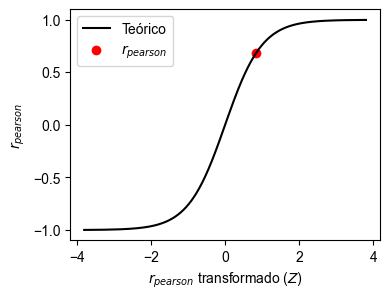
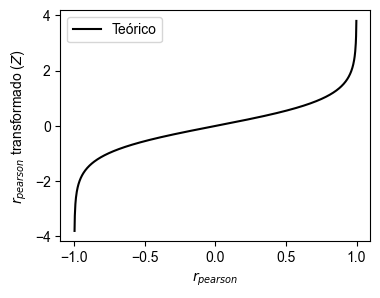
Changed README for r-pearson

diff --git a/Python/pt-br/r-pearson/README.md b/Python/pt-br/r-pearson/README.md
@@ -8,7 +8,7 @@ Este notebook contém diversas formas de avaliar o coeficiente de Pearson utiliz
 - Gráfico com a estimativa do intervalo de confiança;
 
 
-![alt text](https://raw.githubusercontent.com/andersonmdcanteli/statistic/master/Python/pt-br/r-pearson/gif.gif "gif gerado com os gráficos de Pearson")
+![gif on r pearson](https://raw.githubusercontent.com/andersonmdcanteli/statistic/master/Python/pt-br/r-pearson/gif.gif "gif gerado com os gráficos de Pearson")
 
 
 
@@ -20,7 +20,7 @@ O cálculo do coeficiente de correlação de Pearson envolve a determinação da
 
 O coeficiente de correlação de Pearson é amplamente utilizado na análise de dados para avaliar a força e a direção da associação linear entre duas variáveis. Ele é amplamente utilizado em diversas áreas, incluindo biologia, economia, psicologia e outras áreas da ciência.
 
-O coeficiente de Pearson (e.g., $r_{pearson})$ é estimado da seguinte forma:
+O coeficiente de Pearson ($r_{perason})$ é estimado da seguinte forma:
 
 
 $$r_{pearson} = \frac{\sum_{i=1}^n (x_i - \overline{x}) (y_i - \overline{y})}{\sqrt{\sum_{i=1}^n ((x_i - \overline{x})^2 \sum_{i=1}^n ((y_i - \overline{y})^2}}$$
@@ -73,9 +73,9 @@ plt.show()
 ```
 
 
-
+    
 ![png](coeficiente-de-correlacao-%28r-pearson%29_files/coeficiente-de-correlacao-%28r-pearson%29_6_0.png)
-
+    
 
 
 ## Estimação do valor do $r_{pearson}$
@@ -89,7 +89,7 @@ print("r pearson = ", round(r_pearson, 4))
 ```
 
     r pearson =  0.68
-
+    
 
 ### Interpretação
 
@@ -142,9 +142,9 @@ text
 
 ## Verificando a significância do coeficiente de Pearson
 
-Em alguns casos é útil um teste de hipótese para verificar se o coeficiente de correlação é significativo. Partimos do pressuposto que o coeficiente de correlação ( $\rho$, que é adotado para denotar o valor populacional) é igual a 0, e procuramos por evidências para falsear esta hipótese. Ou seja:
+Em alguns casos é útil um teste de hipótese para verificar se o coeficiente de correlação é significativo. Partimos do pressuposto que o coeficiente de correlação ($\rho $, que é adotado para denotar o valor populacional) é igual a 0, e procuramos por evidências para falsear esta hipótese. Ou seja:
 
-> $H_0$: $\rho = 0$;
+> $H_0$: $\rho =0$;
 
 > $H_1$: $\rho  \neq 0$;
 
@@ -154,9 +154,9 @@ $$ t_0 = \frac{r_{pearson}\sqrt{n-2}}{\sqrt{1-r_{pearson}^2}}$$
 
 que segue a distribuição *t-Student* com $n-2$ graus de liberdade ***SE*** a hipótese nula for verdadeira. Neste caso, o valor crítico é obtido através da distribuição *t-Student* e a conclusão do teste é:
 
-> Se $|t_0| > t_{1-\alpha /2, n-2}$, temos evidências para rejeitar a hipótese nula, e $\rho \neq 0$;
+> Se $|t_0| > t_{\left(1-\alpha /2, n-2 \right)}$ ou ($p-valor < \alpha$), temos evidências para rejeitar a hipótese nula, e $\rho \neq 0 $;
 
-> Se $|t_0| \geq t_{1-\alpha /2, n-2}$, não temos evidências para rejeitar a hipótese nula, e $\rho = 0$;
+> Se $|t_0| \leq t_{\left( 1-\alpha /2, n-2\right)}$ ou ($p-valor \geq \alpha$), não temos evidências para rejeitar a hipótese nula, e $\rho = 0 $;
 
 
 
@@ -169,7 +169,7 @@ print("t0 = ", round(t_calc_pearson, 4))
 ```
 
     t0 =  1.6064
-
+    
 
 ### Obtendo o valor crítico da distribuição t de Student
 
@@ -180,7 +180,7 @@ print("t critico = ", round(t_critico_pearson, 4))
 ```
 
     t critico =  3.1824
-
+    
 
 ### Concluindo o teste
 
@@ -193,7 +193,7 @@ else:
 ```
 
     Falha em rejeitar H0, e o coeficiente de Pearson é igual a zero (com 95.0% de confiança).
-
+    
 
 O $p-valor$ deste teste é o segundo valor retornado por `stats.pearsonr(x,y)`. Contudo, este p-valor é valido apenas para o caso da hipótese nula não ter sido rejeitada.
 
@@ -203,7 +203,7 @@ print("p-valor = ", round(p_pearson, 4))
 ```
 
     p-valor =  0.2065
-
+    
 
 > NOTA: o resultado acima é igual ao obtido ao verificar a significância do coeficiente angular quando se ajusta a equação da reta.
 
@@ -215,7 +215,7 @@ Isto é contornado transformando o coeficiente de Pearson utilizando a transform
 
 Esta distribuição Z tem média:
 
-$$ \mu_Z = arctanh (r_{pearson}) = \frac{1}{2} \ln{\frac{1 + r_{pearson}}{1 - r_{pearson}}} $$
+$$ \mu_Z = arctanh \; r_{pearson} = \frac{1}{2} \ln{\frac{1 + r_{pearson}}{1 - r_{pearson}}} $$
 
 E devio padrão igual a:
 
@@ -223,7 +223,7 @@ $$ \sigma_Z = \sqrt{\frac{1}{n-3}} $$
 
 A estatística do teste pode ser formulada da seguinte forma:
 
-$$ Z_0 = (arctanh (r) -arctanh (\rho_0)) \sqrt{n-3} $$
+$$ Z_0 = \left(arctanh \; \left(r \right) -arctanh \; \left(\rho_0\right)\right) \sqrt{n-3} $$
 
 onde $\rho_0$ é o valor esperado para o coeficiente de correlação. As hipóteses para este caso são:
 
@@ -232,11 +232,11 @@ onde $\rho_0$ é o valor esperado para o coeficiente de correlação. As hipóte
 
 > $H_1$: $\rho  \neq \rho_0$;
 
-Os valores críticos são obtidos da distribuição Normal padrão bilateral ( $Z_{1-\alpha/2}$). Podemos então concluir o teste da seguinte forma:
+Os valores críticos são obtidos da distribuição Normal padrão bilateral ($Z_{\left(1-\alpha/2 \right)}$). Podemos então concluir o teste da seguinte forma:
 
-> Se $|Z_0| > Z_{1-\alpha/2}$, temos evidências para rejeitar a hipótese nula, e $\rho \neq \rho_0$;
+> Se $|Z_0| > Z_{\left(1-\alpha/2 \right)}$ (ou $p-valor < \alpha$), temos evidências para rejeitar a hipótese nula, e $\rho \neq \rho_0 $;
 
-> Se $|Z_0| \leq Z_{1-\alpha/2}$, não temos evidências para rejeitar a hipótese nula, e $\rho = \rho_0$;
+> Se $|Z_0| \leq Z_{\left(1-\alpha/2 \right)}$ (ou $p-valor \geq \alpha$), não temos evidências para rejeitar a hipótese nula, e $\rho = \rho_0 $;
 
 Para exemplificar, vamos verificar se o coeficiente de Pearson do conjunto de dados é igual a 0.99.
 
@@ -286,21 +286,35 @@ else:
 ```
 
     Rejeita H0, e o coeficiente de Pearson é diferente de 0.99 (com 95.0% de confiança).
+    
+
+Podemos estimar o $p-valor$ para $Z_{0}$:
 
 
-> Note que já sabiamos que o coeficiente de Pearson era igual a 0 (através do teste t de Student), e não faz sentido testar para outro valor. Foi feito apenas para ter um exemplo numérico.
+```python
+(1 - stats.norm.cdf(np.abs(Z_0)))*2
+```
+
+
+
+
+    0.01015997257626955
+
+
+
+> Note que já sabiamos que o coeficiente de Pearson era igual a 0 (através do teste t de Student). O teste acima foi feito apenas para ter um exemplo numérico.
 
 ## Intervalo de confiança do Coeficiente de Pearson
 
-Para estimar o intervalo de confinça do $r_{pearson}$, basta estimar os limites inferior e superior utilizando a transformação r-para-Z de Fisher.
+Para estimar o intervalo de confinça do $r_{pearson}$, basta estimar os limites inferior e superior utilizando a transformação r-para-Z de Fisher. 
 
 O limite inferior é estimado através da relação:
 
-$$ LI_{pearson} = \tanh{(arctahnh \; (r_{pearson}) - \frac{Z_{1-\alpha/2 }}{\sqrt{n-3}})} $$
+$$ LI_{pearson} = \tanh{\left(arctahnh \; \left(r_{pearson}\right) - \frac{Z_{\left(1-\alpha/2 \right)}}{\sqrt{n-3}}\right)} $$
 
 e o limite superior:
 
-$$ LS_{pearson} = \tanh{(arctahnh \; (r_{pearson}) + \frac{Z_{1-\alpha/2 }}{\sqrt{n-3}})} $$
+$$ LS_{pearson} = \tanh{\left(arctahnh \; \left(r_{pearson}\right) + \frac{Z_{\left(1-\alpha/2 \right)}}{\sqrt{n-3}}\right)} $$
 
 Observe que estamos transformando o coeficiente de pearson para a escala proposta por Fisher, estimando o intervalo de confinça, e retornando a escala original.
 
@@ -415,7 +429,7 @@ f"{round(ic_lower, 4)} <= {round(r_pearson, 4)} <= {round(ic_upper, 4)} (com {10
 
 ## Visualização gráfica
 
-Podemos gerar um gráfico indicando os limites inferior e superior do coeficiente de Pearson, juntamente com a distribuição teórica, de forma a relacionar o coeficiente transformado com o coeficiente na escala original.
+Podemos gerar um gráfico indicando os limites inferior e superior do coeficiente de Pearson, juntamente com a distribuição teórica, de forma a relacionar o coeficiente transformado com o coeficiente na escala original. 
 
 Inicialmente, vamos criar o intervalo teórico para a função hiperbólica inversa:
 
@@ -430,17 +444,17 @@ r_values_z_scale = np.arctanh(r_values)
 
 ```python
 plt.figure(figsize=(4,3))
-plt.plot(r_values_z_scale, r_values, label="Teórico", c="k")
-plt.xlabel("$r_{pearson}$ transformado ($Z$)")
-plt.ylabel("$r_{pearson}$")
+plt.plot(r_values, r_values_z_scale, label="Teórico", c="k")
+plt.ylabel("$r_{pearson}$ transformado ($Z$)")
+plt.xlabel("$r_{pearson}$")
 plt.legend()
 plt.show()
 ```
 
 
-
-![png](coeficiente-de-correlacao-%28r-pearson%29_files/coeficiente-de-correlacao-%28r-pearson%29_45_0.png)
-
+    
+![png](coeficiente-de-correlacao-%28r-pearson%29_files/coeficiente-de-correlacao-%28r-pearson%29_47_0.png)
+    
 
 
 Agora podemos adicionar o valor obtido para o coeficiente de pearson, relacionando o valor transformado com o valor real:
@@ -448,18 +462,18 @@ Agora podemos adicionar o valor obtido para o coeficiente de pearson, relacionan
 
 ```python
 plt.figure(figsize=(4,3))
-plt.plot(r_values_z_scale, r_values, label="Teórico", c="k")
-plt.scatter(r_pearson_z_scale, r_pearson, label="$r_{pearson}$", c="r")
-plt.xlabel("$r_{pearson}$ transformado ($Z$)")
-plt.ylabel("$r_{pearson}$")
+plt.plot(r_values, r_values_z_scale, label="Teórico", c="k")
+plt.scatter(r_pearson, r_pearson_z_scale, label="$r_{pearson}$", c="r")
+plt.ylabel("$r_{pearson}$ transformado ($Z$)")
+plt.xlabel("$r_{pearson}$")
 plt.legend()
 plt.show()
 ```
 
 
-
-![png](coeficiente-de-correlacao-%28r-pearson%29_files/coeficiente-de-correlacao-%28r-pearson%29_47_0.png)
-
+    
+![png](coeficiente-de-correlacao-%28r-pearson%29_files/coeficiente-de-correlacao-%28r-pearson%29_49_0.png)
+    
 
 
 E então adicionamos os limites inferior e superior:
@@ -467,20 +481,20 @@ E então adicionamos os limites inferior e superior:
 
 ```python
 plt.figure(figsize=(4,3))
-plt.plot(r_values_z_scale, r_values, label="Teórico", c="k")
-plt.scatter(r_pearson_z_scale, r_pearson, label="$r_{pearson}$", c="r")
-plt.scatter(ic_lower_z_scale, ic_lower, label="Limite inferior", c="b")
-plt.scatter(ic_upper_z_scale, ic_upper, label="Limite superior", c="y")
-plt.xlabel("$r_{pearson}$ transformado ($Z$)")
-plt.ylabel("$r_{pearson}$")
+plt.plot(r_values, r_values_z_scale, label="Teórico", c="k")
+plt.scatter(r_pearson, r_pearson_z_scale, label="$r_{pearson}$", c="r")
+plt.scatter(ic_lower, ic_lower_z_scale, label="Limite inferior", c="b")
+plt.scatter(ic_upper, ic_upper_z_scale, label="Limite superior", c="y")
+plt.ylabel("$r_{pearson}$ transformado ($Z$)")
+plt.xlabel("$r_{pearson}$")
 plt.legend()
 plt.show()
 ```
 
 
-
-![png](coeficiente-de-correlacao-%28r-pearson%29_files/coeficiente-de-correlacao-%28r-pearson%29_49_0.png)
-
+    
+![png](coeficiente-de-correlacao-%28r-pearson%29_files/coeficiente-de-correlacao-%28r-pearson%29_51_0.png)
+    
 
 
 Uma edição mais adequada do gráfico resulta em
@@ -488,43 +502,47 @@ Uma edição mais adequada do gráfico resulta em
 
 ```python
 plt.figure(figsize=(8,6))
-plt.plot(r_values_z_scale, r_values, label="Teórico", c="k", zorder=-1)
-plt.scatter(r_pearson_z_scale, r_pearson, label="$r_{pearson}$", c="r")
-plt.axvline(x=ic_lower_z_scale, ymin=0, ymax=1, c="lightblue", ls="--", label="Limites de confiança ", )
-plt.axvline(x=ic_upper_z_scale, ymin=0, ymax=1, c="lightblue", ls="--")
-plt.xlabel("$r_{pearson}$ transformado ($Z$)")
-plt.ylabel("$r_{pearson}$")
+plt.plot(r_values, r_values_z_scale, label="Teórico", c="k", zorder=-1)
+plt.scatter(r_pearson, r_pearson_z_scale, label="$r_{pearson}$", c="r")
+plt.axvline(x=ic_lower, ymin=0, ymax=1, c="lightblue", ls="--", label="Limites de confiança ", )
+plt.axvline(x=ic_upper, ymin=0, ymax=1, c="lightblue", ls="--")
+plt.ylabel("$r_{pearson}$ transformado ($Z$)")
+plt.xlabel("$r_{pearson}$")
 plt.legend()
 plt.show()
 ```
 
 
-
-![png](coeficiente-de-correlacao-%28r-pearson%29_files/coeficiente-de-correlacao-%28r-pearson%29_51_0.png)
-
+    
+![png](coeficiente-de-correlacao-%28r-pearson%29_files/coeficiente-de-correlacao-%28r-pearson%29_53_0.png)
+    
 
 
 ## Comentários
 
-Apesar da baixa aplicabilidade, a estatística do coeficiente de Pearson e os testes de hipótese são uma excelente forma de demonstrar através de um conceito simples (o coeficiente de correlação), a importancia da forma da distribuição.
+Apesar da baixa aplicabilidade, a estatística do coeficiente de Pearson e os testes de hipótese são uma excelente forma de demonstrar através de um conceito simples (o coeficiente de correlação), a importancia da forma da distribuição. 
 
-Um ponto relevante a ser discutido é o uso da distribuição Normal para obter os valores críticos. No exemplo utilizado, temos apenas 5 observações, o que não é suficiente para adotar a distribuição Normal. Talvez o uso da distribuição t de Student seja mais adequada para conjuntos de dados pequenos (e.g. $n<30$), de forma a "punir" o intervalo de confiança devido ao baixo tamanho amostral.
+Um ponto relevante a ser discutido é o uso da distribuição Normal para obter os valores críticos. No exemplo utilizado, temos apenas 5 observações, o que não é suficiente para adotar a distribuição Normal. Talvez o uso da distribuição t de Student seja mais adequada para conjuntos de dados pequenos ($n < 30$), de forma a "punir" o intervalo de confiança devido ao baixo tamanho amostral. 
 
 Devido a baixo tamanho amostral, é muito provavel que o intervalo do coeficiente de Person esta sub-estimado.
 
 ## Outros recursos sobre o Coeficiente de Correlação de Pearson
 
+### Recursos de aprendizado
+
+- Um salto para ir além: O coeficiente de correlação de Pearson [link](https://github.com/andersonmdcanteli/statistic/blob/master/Python/pt-br/r-pearson/Um-salto-para-ir-alem.ipynb)
+
 ### Recursos para uso
 
-- Script para verificar se o $r_{pearson}$ é igual a um valor pré-estabelecido: [link](https://github.com/andersonmdcanteli/statistic/blob/master/Python/pt-br/r-pearson/functions.py)
+- Script com funções criadas para avaliar o coeficiente de Pearson: [link](https://github.com/andersonmdcanteli/statistic/blob/master/Python/pt-br/r-pearson/functions.py)
 
 ### Recursos para ensino
 
 - Script para criar gráficos, gif, e vídeos para exemplificar o coeficiente de correlação: [link](https://github.com/andersonmdcanteli/statistic/blob/master/Python/pt-br/r-pearson/r-plot.ipynb);
 
-- Script para gerar gráfico do intervalo de confiança do coeficiente de Pearson variando o nível de significância ( $\alpha$ ): [link](https://github.com/andersonmdcanteli/statistic/blob/master/Python/pt-br/r-pearson/r_pearson-intervalo-confianca-variando-alfa.ipynb);
+- Script para gerar gráfico do intervalo de confiança do coeficiente de Pearson variando o nível de significância ($\alpha$): [link](https://github.com/andersonmdcanteli/statistic/blob/master/Python/pt-br/r-pearson/r_pearson-intervalo-confianca-variando-alfa.ipynb);
 
-- - Script para gerar gráfico do intervalo de confiança do coeficiente de Pearson variando o tamanho amostral: [link](https://github.com/andersonmdcanteli/statistic/blob/master/Python/pt-br/r-pearson/r_pearson-intervalo-confianca-variando-tamanho-amostral.ipynb)
+- Script para gerar gráfico do intervalo de confiança do coeficiente de Pearson variando o tamanho amostral: [link](https://github.com/andersonmdcanteli/statistic/blob/master/Python/pt-br/r-pearson/r_pearson-intervalo-confianca-variando-tamanho-amostral.ipynb)
 
 ## Referências
 
@@ -535,3 +553,4 @@ Devido a baixo tamanho amostral, é muito provavel que o intervalo do coeficient
 - Re: Loftus, G. R. & Loftus, E. F. (1988). Essence of Statistics (2ª Edition). New York: McGraw Hill. Disponível em <https://faculty.washington.edu/gloftus/P317-318/Useful_Information/r_to_z/PearsonrCIs.pdf>.
 
 - Montgomery, D. C.; Peck, L. A.; Vining G. G. (2012). Introduction to Linear Regression Analysis (5ª Edição). JOHN WILEY & SONS, INC.
+
